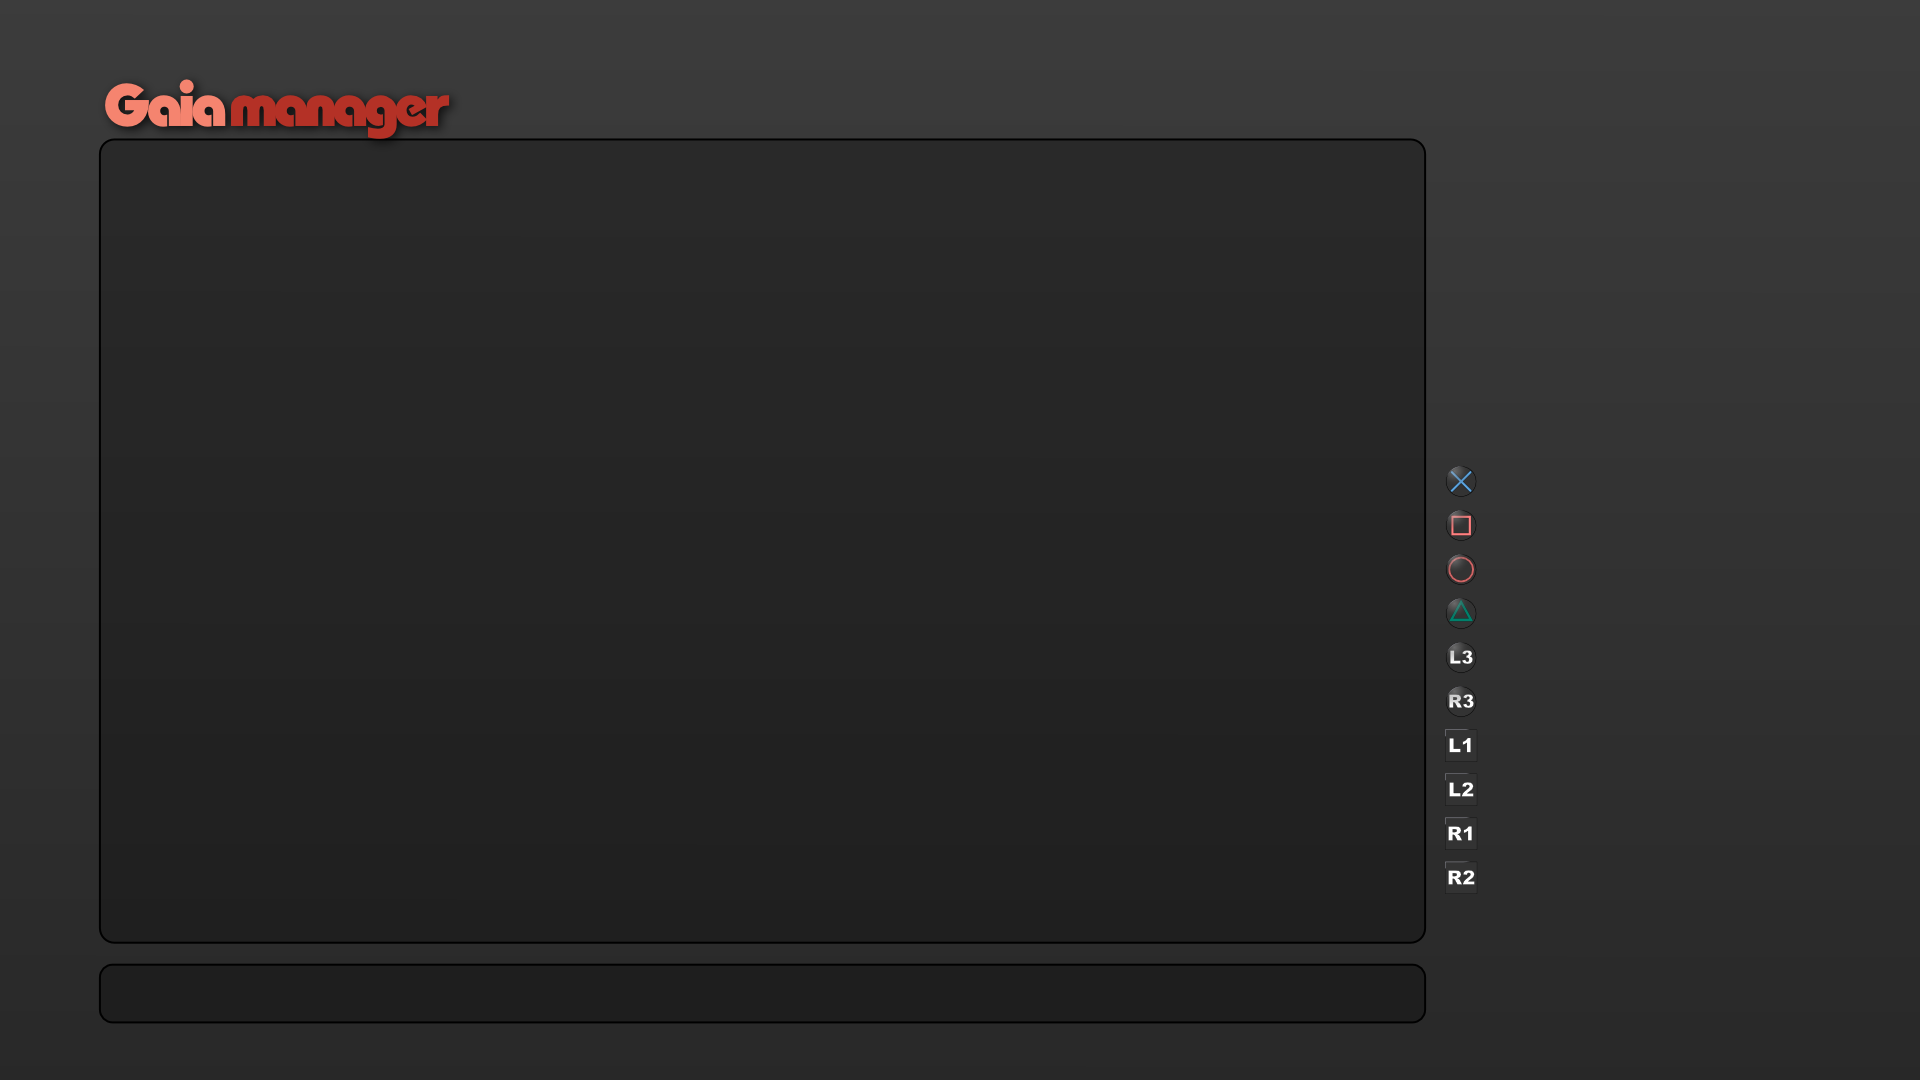
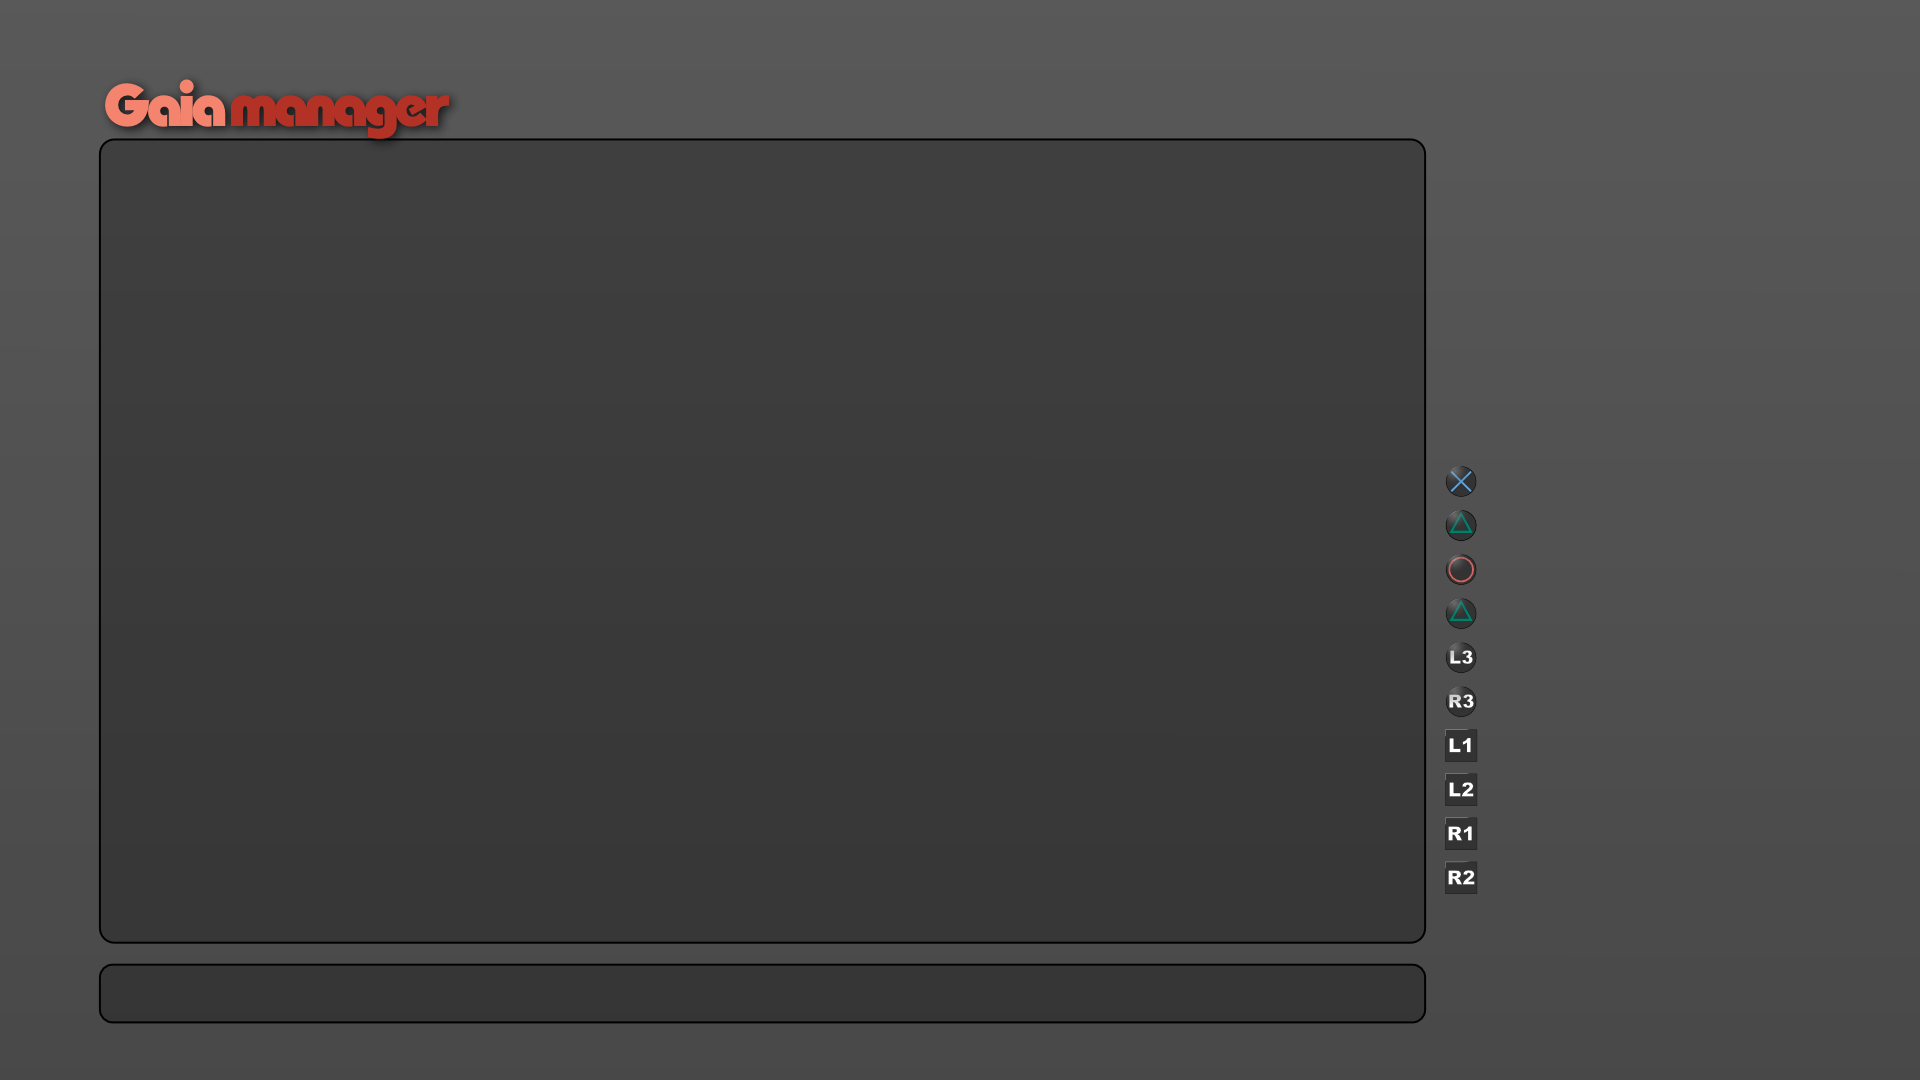
Add support of pic1 with transparent background

diff --git a/main.c b/main.c
@@ -1187,6 +1187,7 @@ int main(int argc, char *argv[])
 	u8 *text_bmp = NULL;
 	u8 *text_h = NULL;
 	u8 *text_bg = NULL;
+	u8 *text_pic1 = NULL;
 	//char INPUT_FILE[] = "/dev_bdvd/PS3_GAME/SND0.AT3";
 	ret = load_modules();
 	load_libfont_module();
@@ -1225,6 +1226,7 @@ int main(int argc, char *argv[])
 	text_bmp = (u8 *) memalign(0x100000, frame_buf_size);
 	text_bg = (u8 *) memalign(0x100000, frame_buf_size);
 	text_h = (u8 *) memalign(0x100000, frame_buf_size);
+	text_pic1 = (u8 *) memalign(0x100000, frame_buf_size);
 	if (!text_bmp)
 		exit(-1);
 
@@ -1233,6 +1235,8 @@ int main(int argc, char *argv[])
 	if (png_out_mapmem(text_bg, frame_buf_size))
 		exit(-1);
 	if (png_out_mapmem(text_h, frame_buf_size))
+		exit(-1);
+	if (png_out_mapmem(text_pic1, frame_buf_size))
 		exit(-1);
 
 	cellSysutilRegisterCallback(0, gfxSysutilCallback, NULL);
@@ -1395,6 +1399,39 @@ int main(int argc, char *argv[])
 				old_fi = game_sel;
 				if (mode_list == GAME) {
 					struct stat st;
+
+					mkdir("/dev_hdd0/game/" FOLDER_NAME "/cache/", S_IRWXO | S_IRWXU | S_IRWXG | S_IFDIR);
+					sprintf(filename, "/dev_hdd0/game/%s/cache/%s-PIC1.PNG", hdd_folder_home,
+							menu_list[game_sel].title_id);
+					if (stat(filename, &st) < 0) {
+						FILE *fp;
+						char *buf = NULL;
+						long len;
+
+						snprintf(string1, sizeof(string1), "%s/PS3_GAME/PIC1.PNG", menu_list[game_sel].path);
+						if ((fp = fopen(string1, "rb")) == NULL)
+							break;
+						fseek(fp, 0, SEEK_END);
+						len = ftell(fp);
+						if ((buf = (char *) malloc(len)) == NULL) {
+							fclose(fp);
+							break;
+						}
+						fseek(fp, 0, SEEK_SET);
+						fread(buf, len, 1, fp);
+						fclose(fp);
+
+						if ((fp = fopen(filename, "wb")) == NULL) {
+							free(buf);
+							break;
+						}
+						fwrite(buf, len, 1, fp);
+						fclose(fp);
+						free(buf);
+					}
+
+					load_png_texture(text_pic1, filename);
+
 					sprintf(filename, "%s/COVER.PNG", menu_list[game_sel].path);
 					if (stat(filename, &st) < 0) {
 						sprintf(filename, "/dev_hdd0/%s/%s.PNG", COVERS_DIR, menu_list[game_sel].title_id);
@@ -1880,7 +1917,8 @@ int main(int argc, char *argv[])
 
 		if ((new_pad & BUTTON_SQUARE) && mode_list == GAME) {
 			dialog_ret = 0;
-			ret = cellMsgDialogOpen2(type_dialog_yes_no, text_cover_msg[region], dialog_fun1, (void *) 0x0000aaaa, NULL);
+			ret =
+				cellMsgDialogOpen2(type_dialog_yes_no, text_cover_msg[region], dialog_fun1, (void *) 0x0000aaaa, NULL);
 			wait_dialog();
 
 			if (dialog_ret == 1) {
@@ -1987,6 +2025,10 @@ int main(int argc, char *argv[])
 		cellGcmSetClearSurface(gCellGcmCurrentContext,
 							   CELL_GCM_CLEAR_Z | CELL_GCM_CLEAR_R | CELL_GCM_CLEAR_G | CELL_GCM_CLEAR_B |
 							   CELL_GCM_CLEAR_A);
+
+		set_texture(text_pic1, DISPLAY_WIDTH, DISPLAY_HEIGHT);
+		setRenderTexture();
+		display_png(0, 0, 1920, 1080, 1920, 1080);
 
 		setRenderColor();
 		// square for screen
